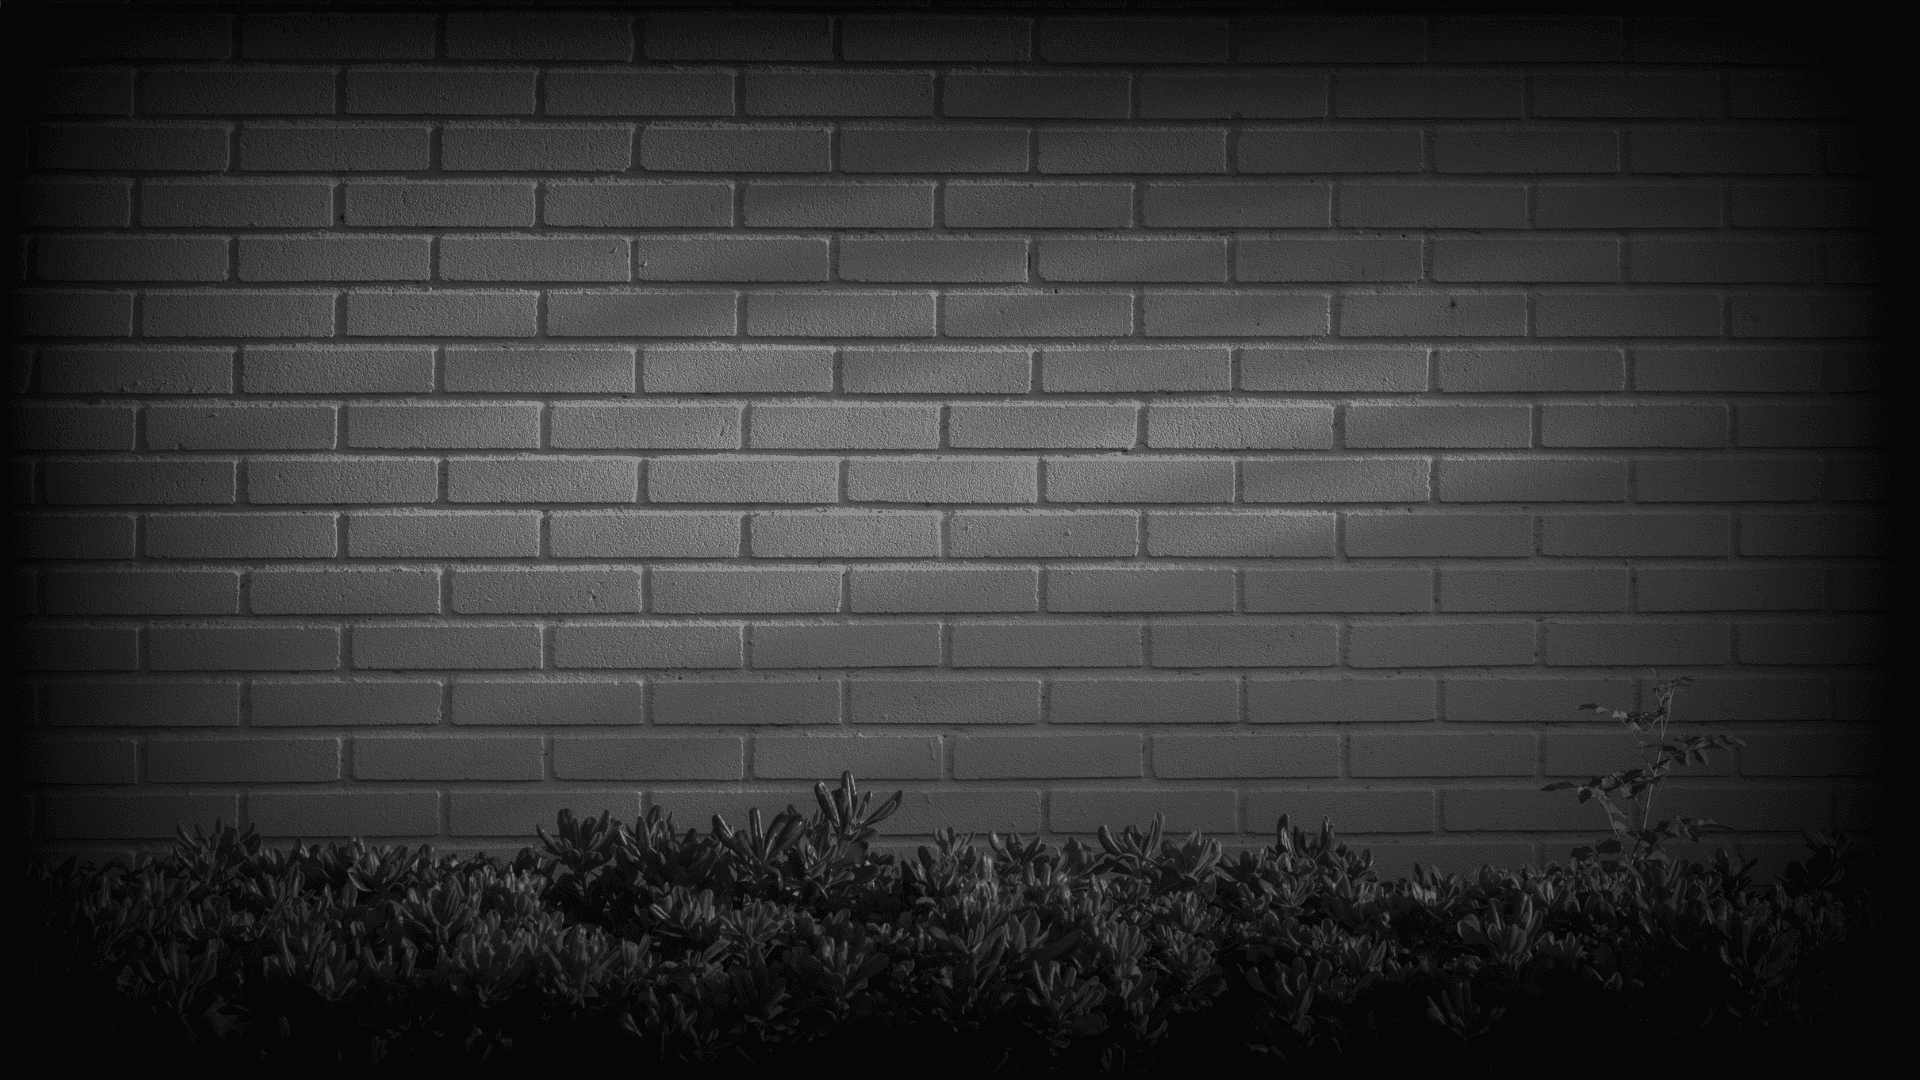
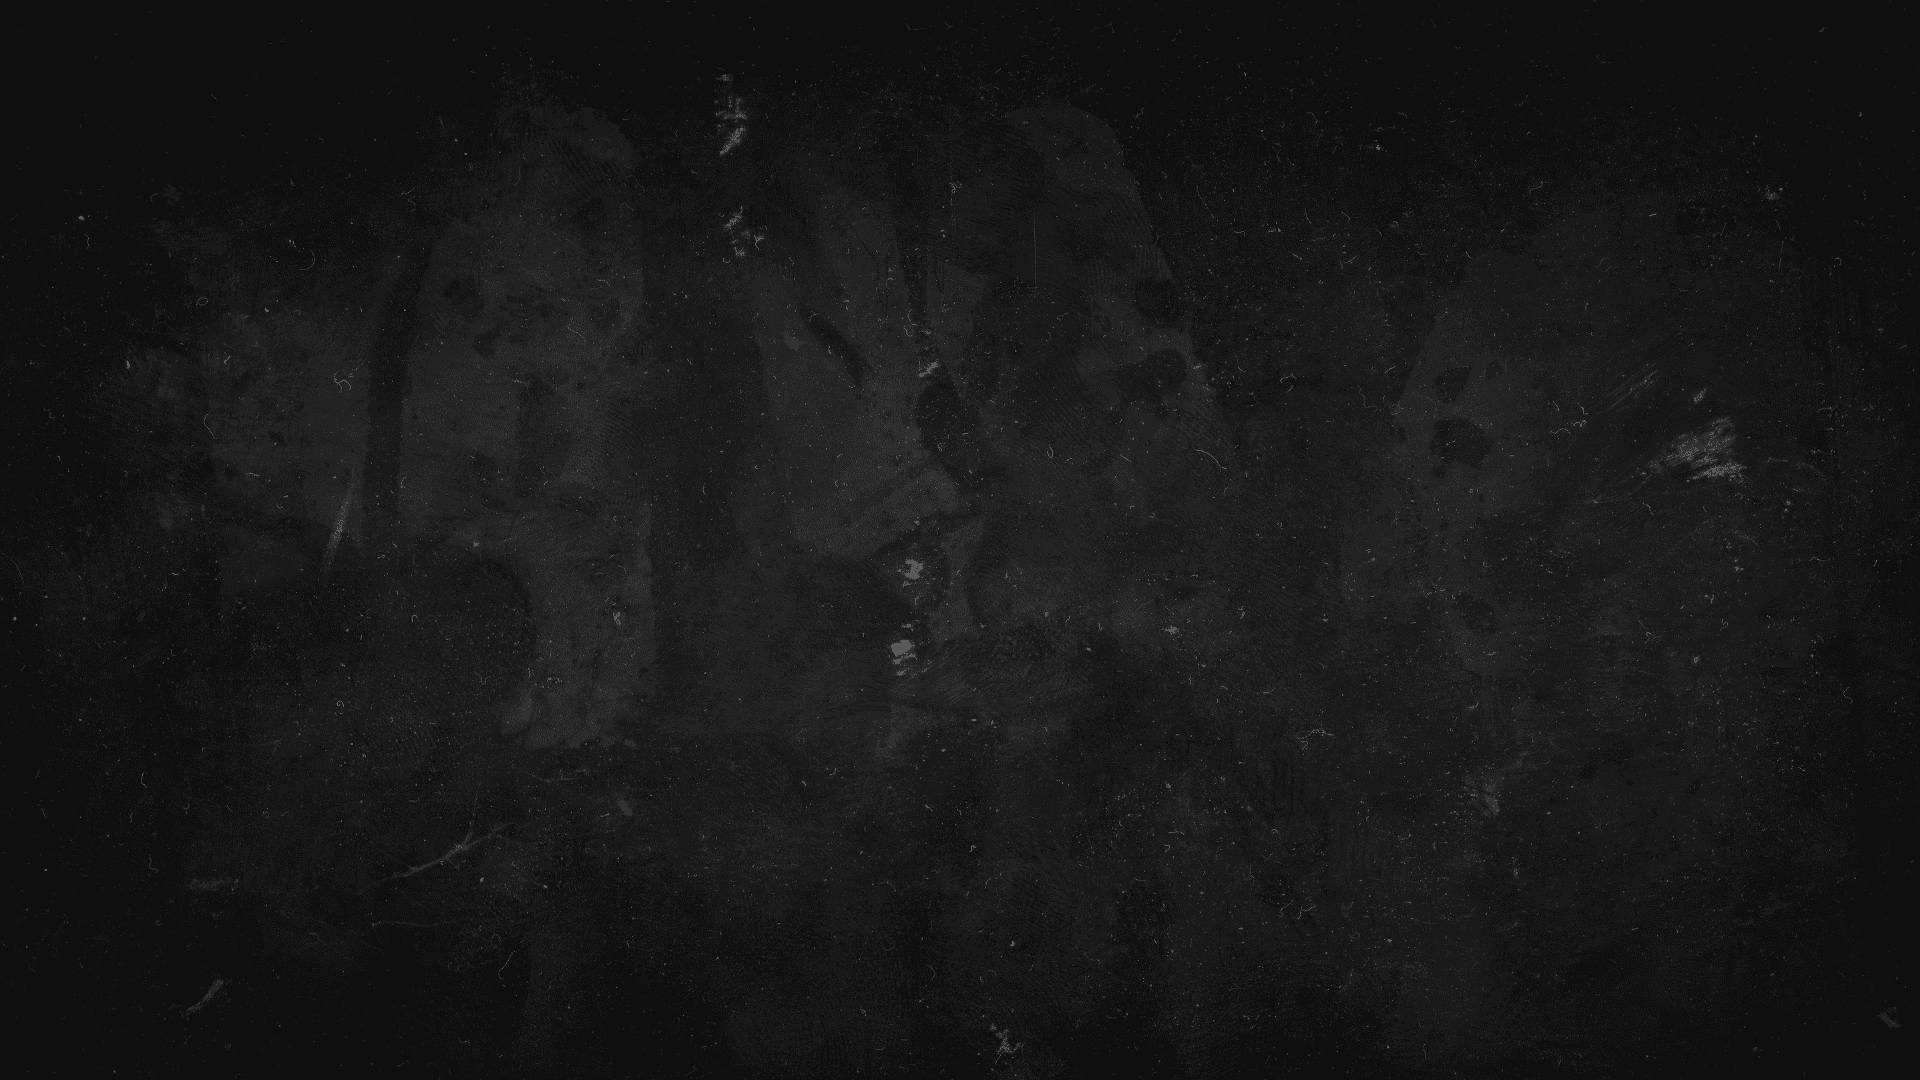
Simplify

diff --git a/comunidad.html b/comunidad.html
@@ -342,88 +342,6 @@
         <a href="https://discord.gg/benares" target="_blank">Entrar no Discord →</a>
       </div>
 
-      <!-- Newsletter -->
-      <div class="sticky-note sticky-green">
-        <h3>Newsletter</h3>
-        <p>Receba as últimas novidades e convites exclusivos diretamente no seu email.</p>
-        <a href="mailto:charlie@thebenaresclub.com?subject=Newsletter">Subscrever →</a>
-      </div>
-
-      <!-- Member Benefits -->
-      <div class="sticky-note sticky-orange tilt-right">
-        <h3>Benefícios</h3>
-        <ul class="sticky-list">
-          <li>Acesso antecipado</li>
-          <li>Descontos exclusivos</li>
-          <li>Eventos privados</li>
-          <li>Biblioteca digital</li>
-        </ul>
-        <a href="mercado.html">Saber mais →</a>
-      </div>
-
-      <!-- Photo 2 - Art Exhibition -->
-      <div class="corkboard-photo photo-tilt-right">
-        <div class="photo-image" style="background-image: url('https://picsum.photos/220/370?random=2');"></div>
-        <div class="photo-caption">Exposição de Arte - Dez 2024</div>
-      </div>
-
-      <!-- Collaborations -->
-      <div class="sticky-note sticky-purple tilt-left-large">
-        <h3>Colaborações</h3>
-        <p>Interessado em colaborar? Estamos sempre abertos a novas ideias e parcerias criativas!</p>
-        <a href="mailto:charlie@thebenaresclub.com?subject=Colaboração">Contactar →</a>
-      </div>
-
-      <!-- Workshop Alert -->
-      <div class="sticky-note sticky-yellow tilt-right-small">
-        <h3>Workshop!</h3>
-        <p>Novo workshop de arte digital este mês. Vagas limitadas!</p>
-        <a href="laboratorio.html">Inscrever →</a>
-      </div>
-
-      <!-- Photo 3 - Community Gathering -->
-      <div class="corkboard-photo photo-tilt-slight">
-        <div class="photo-image" style="background-image: url('https://picsum.photos/220/370?random=3');"></div>
-        <div class="photo-caption">Encontro Mensal - Nov 2024</div>
-      </div>
-
-      <!-- Community Rules -->
-      <div class="sticky-note sticky-pink">
-        <h3>Código de Conduta</h3>
-        <ul class="sticky-list">
-          <li>Respeito mútuo</li>
-          <li>Criatividade livre</li>
-          <li>Partilha de conhecimento</li>
-        </ul>
-        <a href="https://docs.google.com/community-rules" target="_blank">Ler completo →</a>
-      </div>
-
-      <!-- Film Club -->
-      <div class="sticky-note sticky-blue tilt-left-small">
-        <h3>Clube de Cinema</h3>
-        <p>Todas as quintas às 20h. Esta semana: Cinema Português Contemporâneo</p>
-        <a href="cinemateca.html">Ver Programa →</a>
-      </div>
-
-      <!-- Book Club -->
-      <div class="sticky-note sticky-green tilt-right">
-        <h3>Clube do Livro</h3>
-        <p>Leitura do mês: "O Ano da Morte de Ricardo Reis" - José Saramago</p>
-        <a href="biblioteca.html">Juntar-se →</a>
-      </div>
-
-      <!-- Photo 4 - Workshop Scene -->
-      <div class="corkboard-photo photo-tilt-left">
-        <div class="photo-image" style="background-image: url('https://picsum.photos/220/370?random=4');"></div>
-        <div class="photo-caption">Workshop de Criatividade</div>
-      </div>
-
-      <!-- Volunteer -->
-      <div class="sticky-note sticky-orange tilt-left">
-        <h3>Voluntariado</h3>
-        <p>Ajude-nos a crescer! Precisamos de voluntários para eventos e projetos comunitários.</p>
-        <a href="mailto:charlie@thebenaresclub.com?subject=Voluntariado">Candidatar →</a>
-      </div>
 
       <!-- Social Media -->
       <div class="sticky-note sticky-purple tilt-right-small">

diff --git a/biblioteca.html b/biblioteca.html
@@ -392,10 +392,7 @@
         <!-- Add more books here - they will continue to the right -->
       </div>
 
-      <!-- Bookshelf background image -->
-      <img class="Librera" src="./media/04_Arquivo_Nacional_-_Librera.png" alt="Biblioteca estantería">
-    </div>
-    
+     
     <!-- Book Reader Overlay -->
     <div class="book-reader-overlay" id="bookReader">
       <button class="back-to-library" onclick="closeBook()">✕</button>

diff --git a/shared-header.js b/shared-header.js
@@ -17,7 +17,6 @@ function createHeader() {
         <li><a href="eventos.html">Eventos</a></li>
         <li><a href="biblioteca.html">Biblioteca</a></li>
         <li><a href="cinemateca.html">Cinemateca</a></li>
-        <li><a href="laboratorio.html">Laboratório</a></li>
         <li><a href="mercado.html">Mercado</a></li>
         <li><a href="comunidad.html">Comunidad</a></li>
         <li><a href="contactos.html">Contactos</a></li>

diff --git a/shared.js b/shared.js
@@ -17,7 +17,6 @@ function createHeader() {
         <li><a href="eventos.html">Eventos</a></li>
         <li><a href="biblioteca.html">Biblioteca</a></li>
         <li><a href="cinemateca.html">Cinemateca</a></li>
-        <li><a href="laboratorio.html">Laboratório</a></li>
         <li><a href="mercado.html">Mercado</a></li>
         <li><a href="comunidad.html">Comunidad</a></li>
         <li><a href="contactos.html">Contactos</a></li>

diff --git a/index.html b/index.html
@@ -26,7 +26,7 @@
     </head>
     <body>
     <div class="source-link">
-      <a class="show-source" data="simple-tag-pdf">Show source code</a>
+      <a class="show-source" data="simple-tag-pdf"></a>
     </div>
     
     <div class="sample-container-box">

diff --git a/styles.css b/styles.css
@@ -868,7 +868,7 @@ body.bg-mercado {
 }
 
 body.bg-comunidade {
-  background-image: url("media/Contactos.png");
+  background-image: url("media/B10\ Comunidade.png");
   background-size: cover;
   background-position: center;
   background-repeat: no-repeat;
